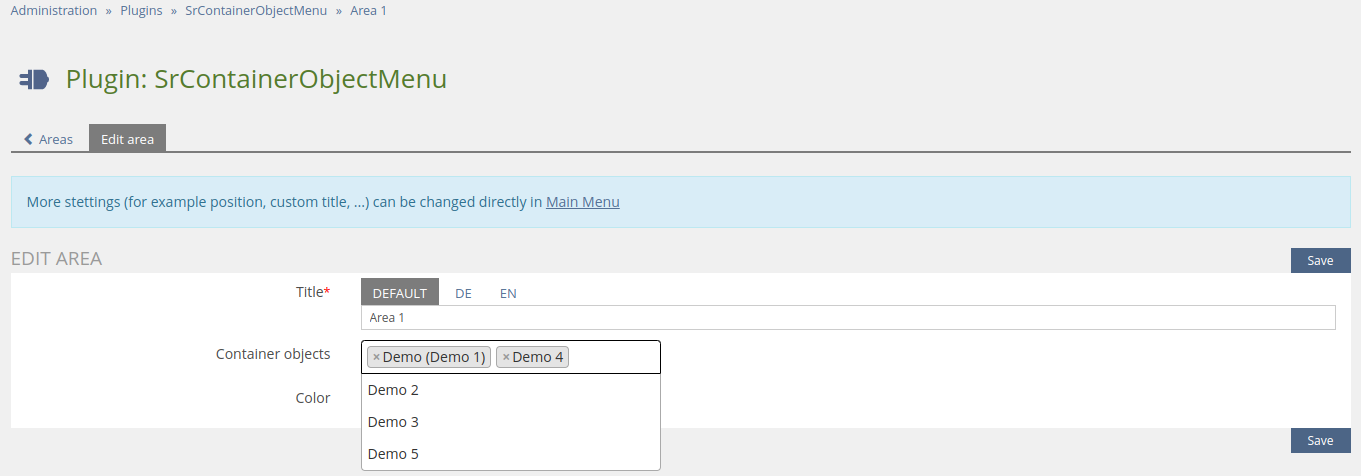
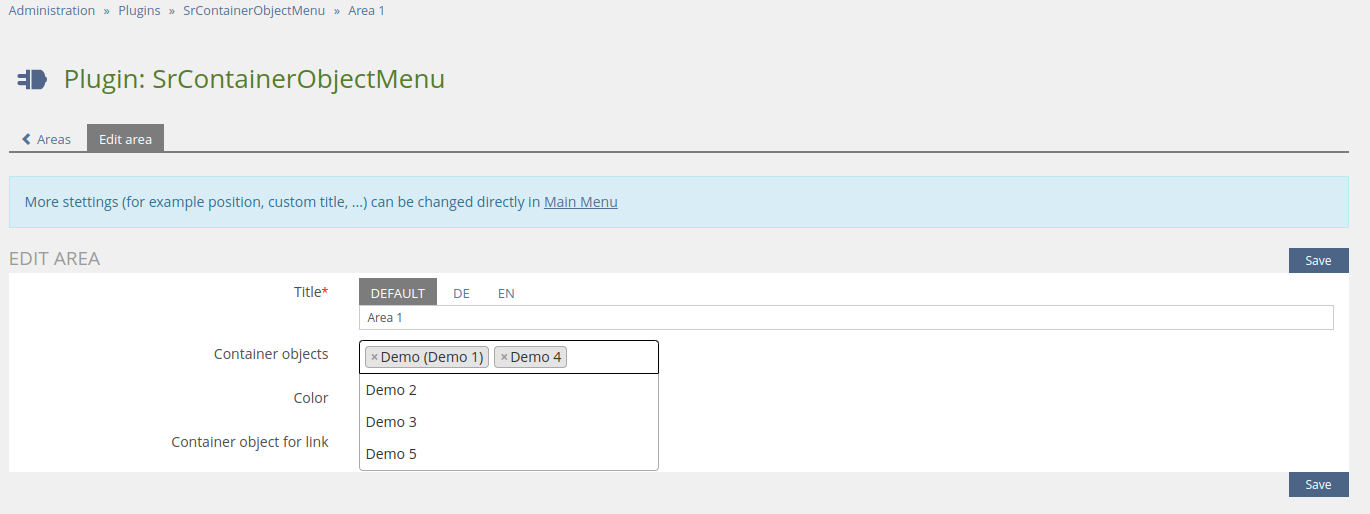
Select a container object for a link in area

diff --git a/src/Area/Form/FormBuilder.php b/src/Area/Form/FormBuilder.php
@@ -103,9 +103,10 @@ class FormBuilder extends AbstractFormBuilder
     protected function getData() : array
     {
         $data = [
-            "titles"            => $this->area->getTitles(),
-            "container_objects" => $this->area->getContainerObjectsIds(),
-            "color"             => $this->area->getColor()
+            "titles"                => $this->area->getTitles(),
+            "container_objects"     => $this->area->getContainerObjectsIds(),
+            "color"                 => $this->area->getColor(),
+            "link_container_object" => [$this->area->getLinkContainerObjectId()],
         ];
 
         return $data;
@@ -118,20 +119,25 @@ class FormBuilder extends AbstractFormBuilder
     protected function getFields() : array
     {
         $fields = [
-            "titles"            => (new InputGUIWrapperUIInputComponent(new TabsInputGUI(self::plugin()->translate("title", AreasCtrl::LANG_MODULE))))->withRequired(true),
-            "container_objects" => new InputGUIWrapperUIInputComponent(new MultiSelectSearchNewInputGUI(self::plugin()->translate("container_objects", ContainerObjectsCtrl::LANG_MODULE))),
-            "color"             => new InputGUIWrapperUIInputComponent(new ColorPickerInputGUI(self::plugin()->translate("color", AreasCtrl::LANG_MODULE)))
+            "titles"                => (new InputGUIWrapperUIInputComponent(new TabsInputGUI(self::plugin()->translate("title", AreasCtrl::LANG_MODULE))))->withRequired(true),
+            "container_objects"     => new InputGUIWrapperUIInputComponent(new MultiSelectSearchNewInputGUI(self::plugin()->translate("container_objects", ContainerObjectsCtrl::LANG_MODULE))),
+            "color"                 => new InputGUIWrapperUIInputComponent(new ColorPickerInputGUI(self::plugin()->translate("color", AreasCtrl::LANG_MODULE))),
+            "link_container_object" => new InputGUIWrapperUIInputComponent(new MultiSelectSearchNewInputGUI(self::plugin()->translate("link_container_object", AreasCtrl::LANG_MODULE))),
         ];
         MultilangualTabsInputGUI::generateLegacy($fields["titles"]->getInput(), [
             new ilTextInputGUI(self::plugin()->translate("title", AreasCtrl::LANG_MODULE), "title")
         ], true);
 
-        $fields["container_objects"]->getInput()->setOptions(array_reduce(self::srContainerObjectMenu()->containerObjects()->getContainerObjects(),
+        $container_object_options = array_reduce(self::srContainerObjectMenu()->containerObjects()->getContainerObjects(),
             function (array $container_objects, ContainerObject $container_object) : array {
                 $container_objects[$container_object->getContainerObjectId()] = $container_object->getTitle();
 
                 return $container_objects;
-            }, []));
+            }, []);
+        $fields["container_objects"]->getInput()->setOptions($container_object_options);
+
+        $fields["link_container_object"]->getInput()->setOptions($container_object_options);
+        $fields["link_container_object"]->getInput()->setLimitCount(1);
 
         $fields["color"]->getInput()->setDefaultColor("");
 
@@ -164,6 +170,7 @@ class FormBuilder extends AbstractFormBuilder
         $this->area->setTitles((array) ($data["titles"]));
         $this->area->setContainerObjectsIds(MultiSelectSearchNewInputGUI::cleanValues((array) $data["container_objects"]));
         $this->area->setColor(strval($data["color"]));
+        $this->area->setLinkContainerObjectId(current(MultiSelectSearchNewInputGUI::cleanValues((array) $data["link_container_object"])) ?: null);
 
         self::srContainerObjectMenu()->areas()->storeArea($this->area);
     }

diff --git a/src/Area/Area.php b/src/Area/Area.php
@@ -46,6 +46,15 @@ class Area extends ActiveRecord
      */
     protected $color = "";
     /**
+     * @var int|null
+     *
+     * @con_has_field    true
+     * @con_fieldtype    integer
+     * @con_length       8
+     * @con_is_notnull   false
+     */
+    protected $link_container_object_id = null;
+    /**
      * @var array
      *
      * @con_has_field    true
@@ -210,11 +219,71 @@ class Area extends ActiveRecord
         if (!empty($this->getColorHex())) {
             $variables["color"] = $this->getColorHex();
         }
+        if (!empty($this->getLinkContainerObjectLink())) {
+            $variables["link"] = $this->getLinkContainerObjectLink();
+        }
         if (!empty($this->getTitle())) {
-            $variables["title"] = "\"" . preg_replace("/[^[a-z0-9 äöüéèà]/i", "", $this->getTitle()) . "\""; // TODO: How to escape?
+            $variables["title"] = "\"" . str_replace("\"", "", $this->getTitle()) . "\"";
         }
 
         return $variables;
+    }
+
+
+    /**
+     * @return ContainerObject|null
+     */
+    public function getLinkContainerObject()/* : ?ContainerObject*/
+    {
+        if (!empty($this->link_container_object_id)) {
+            return self::srContainerObjectMenu()->containerObjects()->getContainerObjectById($this->link_container_object_id);
+        } else {
+            return null;
+        }
+    }
+
+
+    /**
+     * @return int|null
+     */
+    public function getLinkContainerObjectId()/* : ?int*/
+    {
+        return $this->link_container_object_id;
+    }
+
+
+    /**
+     * @param int|null $link_container_object_id
+     */
+    public function setLinkContainerObjectId(/*?*/ int $link_container_object_id = null)/* : void*/
+    {
+        $this->link_container_object_id = $link_container_object_id;
+    }
+
+
+    /**
+     * @return string
+     */
+    public function getLinkContainerObjectLink() : string
+    {
+        if ($this->getLinkContainerObject() !== null) {
+            return $this->getLinkContainerObject()->getLink();
+        } else {
+            return "";
+        }
+    }
+
+
+    /**
+     * @return string
+     */
+    public function getLinkContainerObjectTitle() : string
+    {
+        if ($this->getLinkContainerObject() !== null) {
+            return $this->getLinkContainerObject()->getTitle();
+        } else {
+            return "";
+        }
     }
 
 

diff --git a/src/Menu/BaseMenu.php b/src/Menu/BaseMenu.php
@@ -8,7 +8,6 @@ use ILIAS\GlobalScreen\Scope\MainMenu\Factory\isItem;
 use ILIAS\GlobalScreen\Scope\MainMenu\Provider\AbstractStaticPluginMainMenuProvider;
 use ILIAS\UI\Component\Symbol\Icon\Standard;
 use ILIAS\UI\Component\Symbol\Symbol;
-use ilLink;
 use ilObject;
 use ilSrContainerObjectMenuPlugin;
 use ilUIPluginRouterGUI;
@@ -79,7 +78,7 @@ abstract class BaseMenu extends AbstractStaticPluginMainMenuProvider
                         $sub_items[] = $this->symbol($this->mainmenu->link($this->if->identifier($container_object->getMenuIdentifier($child_id, $position)))
                             ->withParent($this->top_identifiers[$container_object->getMenuIdentifier()])
                             ->withTitle($child_title)
-                            ->withAction(ilLink::_getLink($child_id))
+                            ->withAction($container_object->getLink($child_id))
                             ->withPosition($position)
                             ->withAvailableCallable(function () : bool {
                                 return self::plugin()->getPluginObject()->isActive();
@@ -96,7 +95,7 @@ abstract class BaseMenu extends AbstractStaticPluginMainMenuProvider
                 self::dic()->ctrl()->setParameterByClass(SelectAreaCtrl::class, SelectAreaCtrl::GET_PARAM_AREA_ID, $area->getAreaId());
 
                 $this->css[] = ":root{" . implode("", array_map(function (string $key, string $value) use ($area) : string {
-                        return "--" . $area->getMenuIdentifier() . "_" . $key . ":" . $value . ";"; // TODO: How to escape?
+                        return "--" . $area->getMenuIdentifier() . "_" . $key . ":" . $this->escapeCSSValue($value) . ";";
                     }, array_keys($area->getCssVariables()), $area->getCssVariables())) . "}";
 
                 if (!empty($area->getColorHex())) {
@@ -208,6 +207,17 @@ abstract class BaseMenu extends AbstractStaticPluginMainMenuProvider
             self::dic()->ui()->mainTemplate()->addInlineCss(implode("\n", $this->css));
             $this->css = [];
         }
+    }
+
+
+    /**
+     * @param string $text
+     *
+     * @return string
+     */
+    protected function escapeCSSValue(string $text) : string
+    {
+        return str_replace(["\n", "\r", ";", "<", ">"], "", $text); // TODO: How to escape css variable value?
     }
 
 

diff --git a/src/ContainerObject/ContainerObject.php b/src/ContainerObject/ContainerObject.php
@@ -5,6 +5,7 @@ namespace srag\Plugins\SrContainerObjectMenu\ContainerObject;
 use ActiveRecord;
 use arConnector;
 use ILIAS\UI\Component\Component;
+use ilLink;
 use ilObject;
 use ilSrContainerObjectMenuPlugin;
 use srag\DIC\SrContainerObjectMenu\DICTrait;
@@ -208,6 +209,17 @@ class ContainerObject extends ActiveRecord
     public function setContainerObjectId(int $container_object_id)/* : void*/
     {
         $this->container_object_id = $container_object_id;
+    }
+
+
+    /**
+     * @param int|null $child_obj_ref_id
+     *
+     * @return string
+     */
+    public function getLink(/*?*/ int $child_obj_ref_id = null) : string
+    {
+        return ilLink::_getStaticLink(!empty($child_obj_ref_id) ? $child_obj_ref_id : $this->obj_ref_id);
     }
 
 

diff --git a/src/Area/Table/TableBuilder.php b/src/Area/Table/TableBuilder.php
@@ -90,6 +90,8 @@ class TableBuilder extends AbstractTableBuilder
                         }
                     }
                 }),
+                self::dataTableUI()->column()->column("link_container_object_title",
+                    self::plugin()->translate("link_container_object", AreasCtrl::LANG_MODULE))->withSortable(false),
                 self::dataTableUI()->column()->column("actions",
                     self::plugin()->translate("actions", AreasCtrl::LANG_MODULE))->withFormatter(self::dataTableUI()->column()->formatter()->actions()->actionsDropdown())
             ], new DataFetcher())->withPlugin(self::plugin());

diff --git a/src/ContainerObject/Repository.php b/src/ContainerObject/Repository.php
@@ -72,6 +72,14 @@ final class Repository
     {
         $container_object->delete();
 
+        foreach (self::srContainerObjectMenu()->areas()->getAreas() as $area) {
+            if ($area->getLinkContainerObjectId() === $container_object->getContainerObjectId()) {
+                $area->setLinkContainerObjectId();
+
+                self::srContainerObjectMenu()->areas()->storeArea($area);
+            }
+        }
+
         self::srContainerObjectMenu()->menu()->deleteMenuItems($container_object->getMenuIdentifier());
 
         unset($this->container_objects_by_id[$container_object->getContainerObjectId()]);

diff --git a/plugin.php b/plugin.php
@@ -4,7 +4,7 @@
 require_once __DIR__ . "/vendor/autoload.php";
 
 $id = "srcontobjmenu";
-$version = "2.4.0";
+$version = "2.5.0";
 $ilias_min_version = "5.4.0";
 $ilias_max_version = "6.999";
 $responsible = "studer + raimann ag - Team Custom 1";

diff --git a/README.md b/README.md
@@ -128,6 +128,7 @@ Or use in JS too
 
 ```js
 getComputedStyle(document.documentElement).getPropertyValue("--srcontainerobjectmenu_area_color") || "#000000";
+getComputedStyle(document.documentElement).getPropertyValue("--srcontainerobjectmenu_area_link") || "";
 getComputedStyle(document.documentElement).getPropertyValue("--srcontainerobjectmenu_area_title") || "Empty";
 ```
 

diff --git a/src/LONG_DESCRIPTION.md b/src/LONG_DESCRIPTION.md
@@ -99,6 +99,7 @@ Or use in JS too
 
 ```js
 getComputedStyle(document.documentElement).getPropertyValue("--srcontainerobjectmenu_area_color") || "#000000";
+getComputedStyle(document.documentElement).getPropertyValue("--srcontainerobjectmenu_area_link") || "";
 getComputedStyle(document.documentElement).getPropertyValue("--srcontainerobjectmenu_area_title") || "Empty";
 ```
 

diff --git a/CHANGELOG.md b/CHANGELOG.md
@@ -1,5 +1,8 @@
 # Changelog
 
+## [2.5.0]
+- Select a container object for a link in area
+
 ## [2.4.0]
 - Config for change selected area menu title
 
